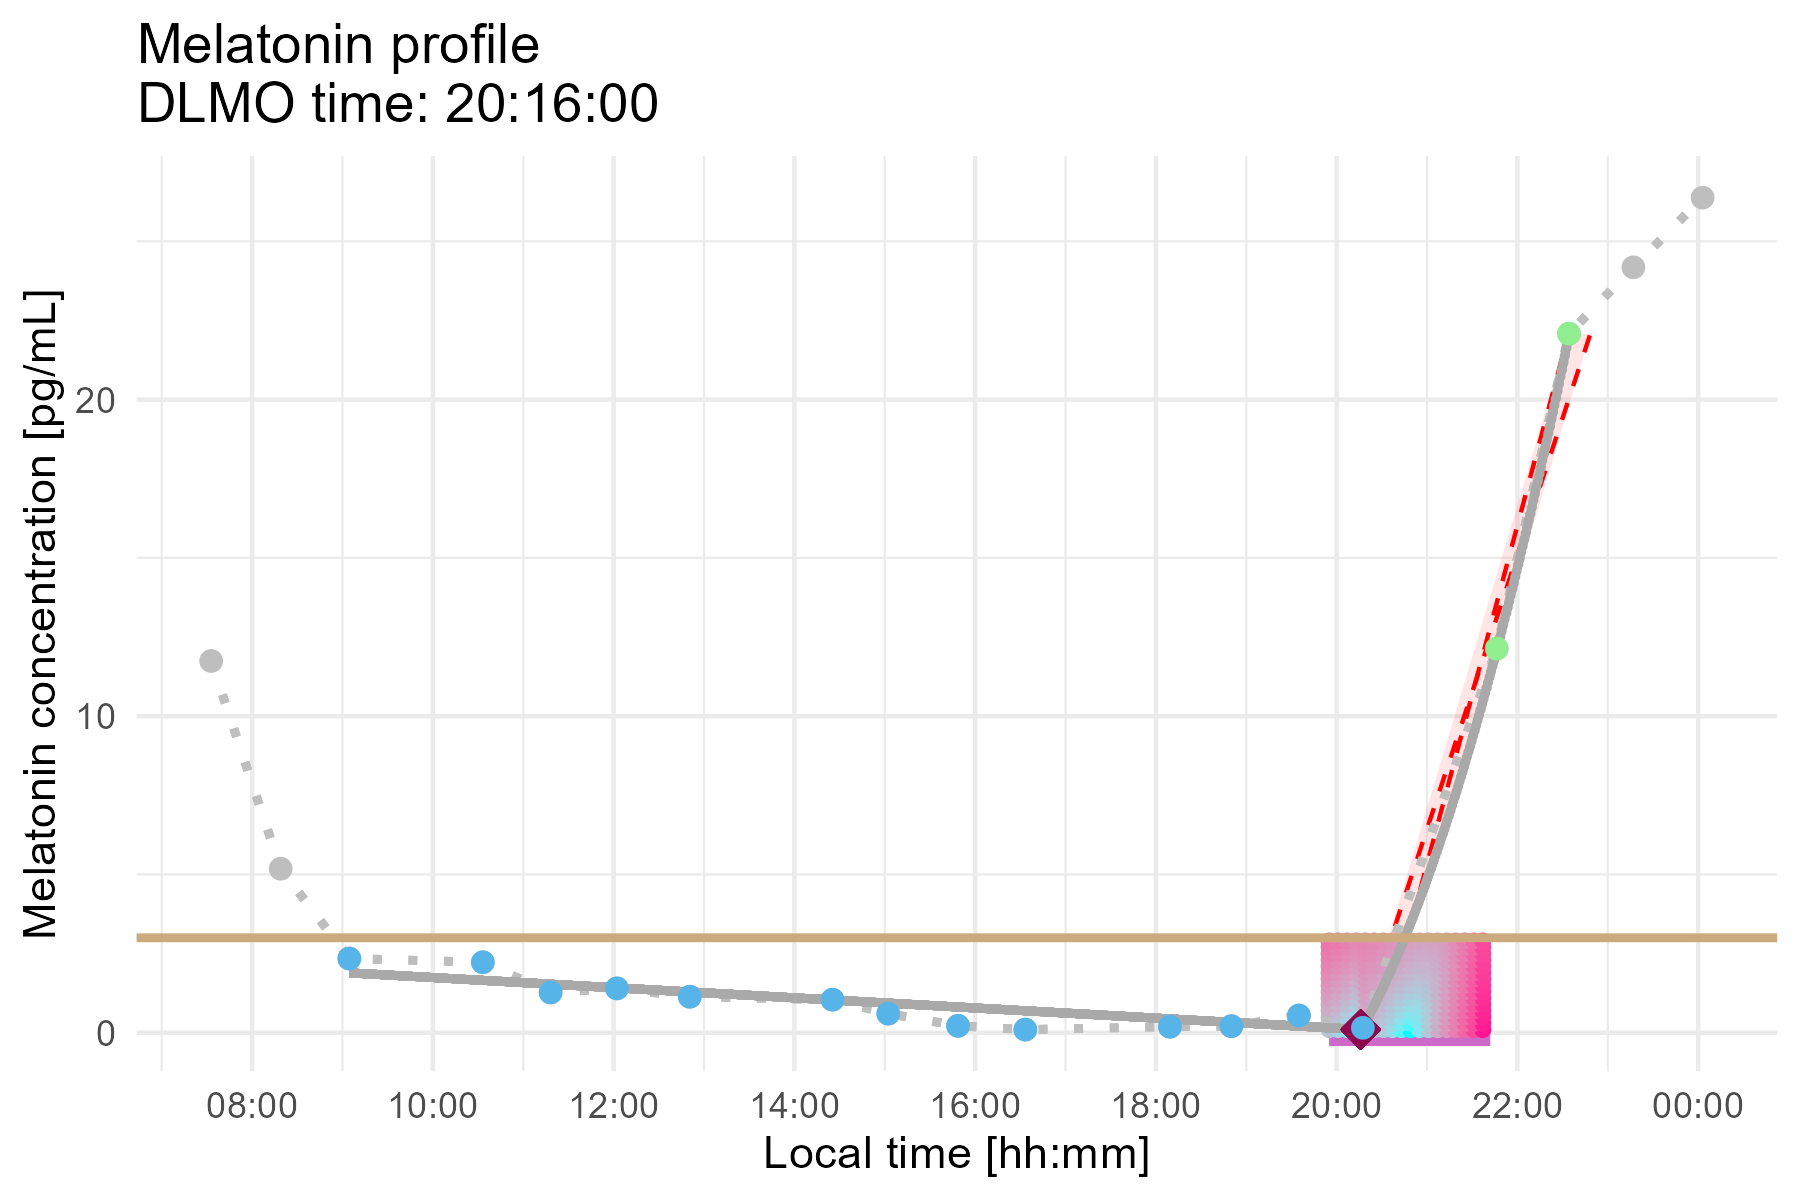
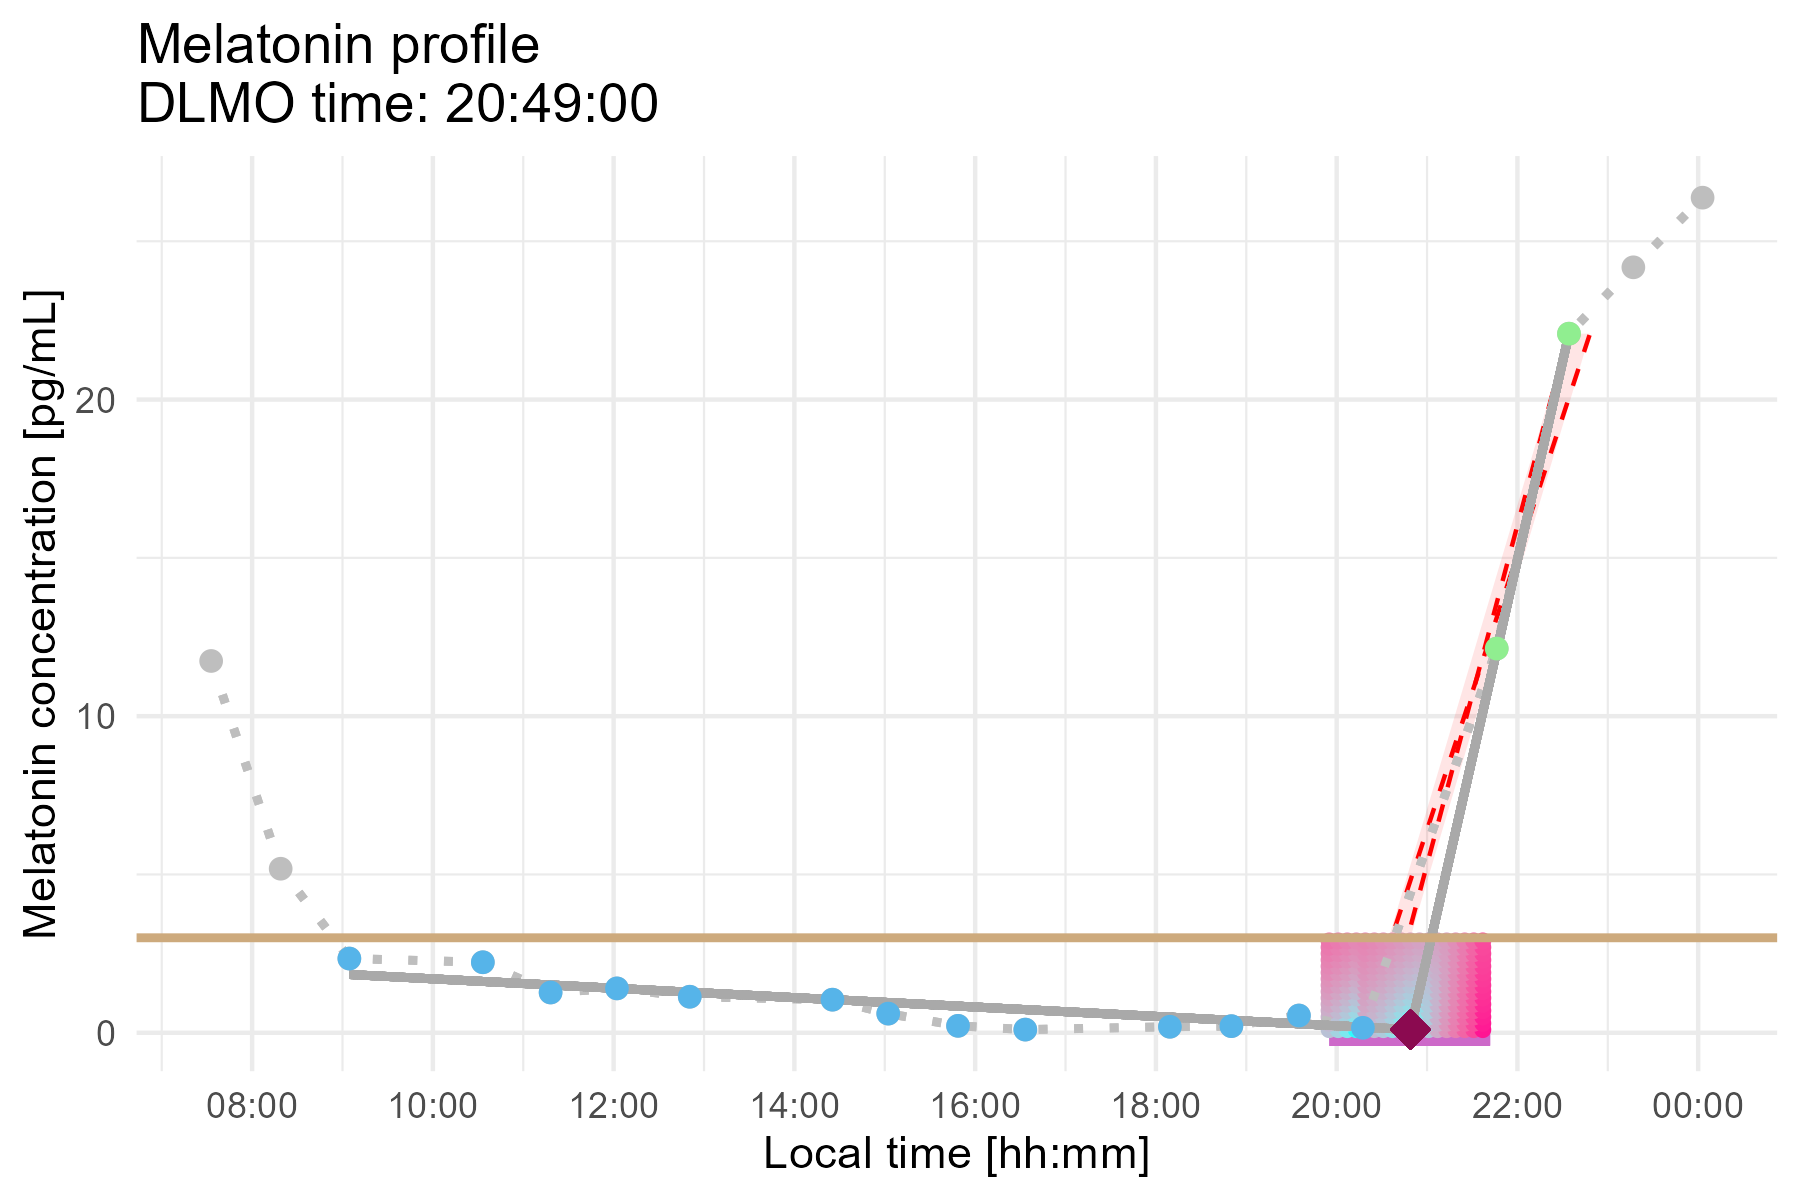
updated how coarse and fine grid search results are saved in output structure, and how plots are labeled accordingly.

Changed region(s): [[0.7156, 0.5858, 0.84, 0.8942], [0.28, 0.0617, 0.3422, 0.0925]]

diff --git a/README.md b/README.md
@@ -50,15 +50,6 @@ pak::pak("tscnlab/dlmoR")
 This is a simple example that illustrates how to use **`dlmoR`**:
 
 ``` r
-library(dlmoR)
-
-# Load the sample melatonin profile data included in the package
-filename <- system.file("extdata/sample_melatonin_profile.csv", package = "dlmoR")
-# Calculate the DLMO using the sample data and a threshold of 3 pg/mL (default = 2.3 pg/mL)
-sample_dlmo <- calculate_dlmo(file_path = filename, threshold = 3, fine_flag = TRUE)
-```
-
-``` r
 # Load the package
 library(dlmoR)
 
